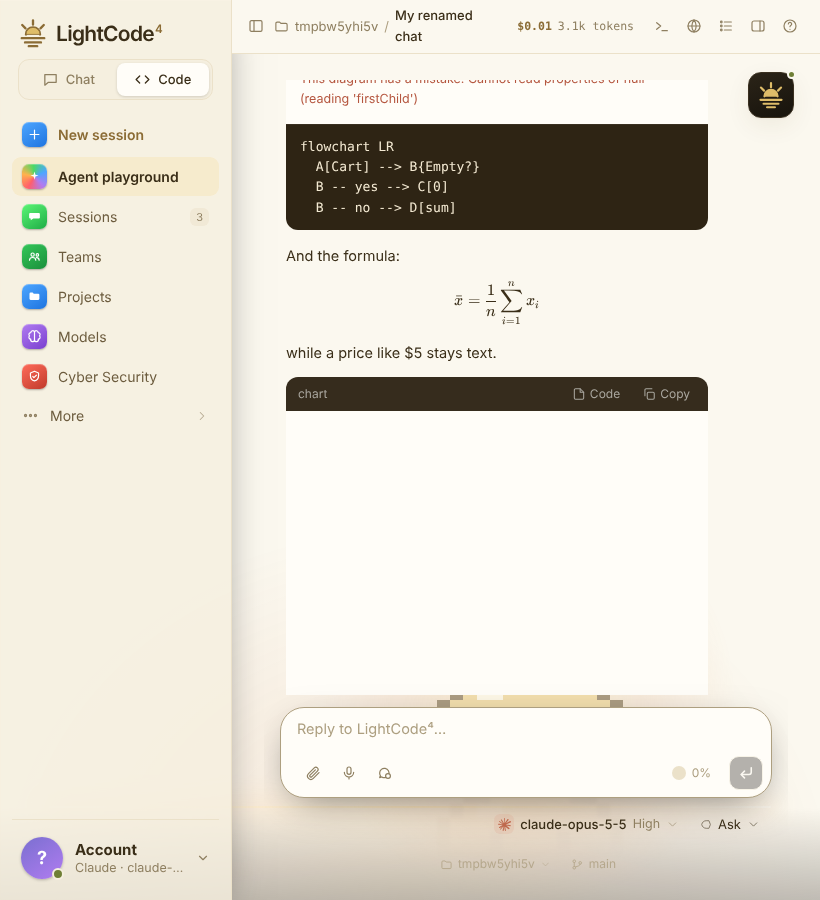
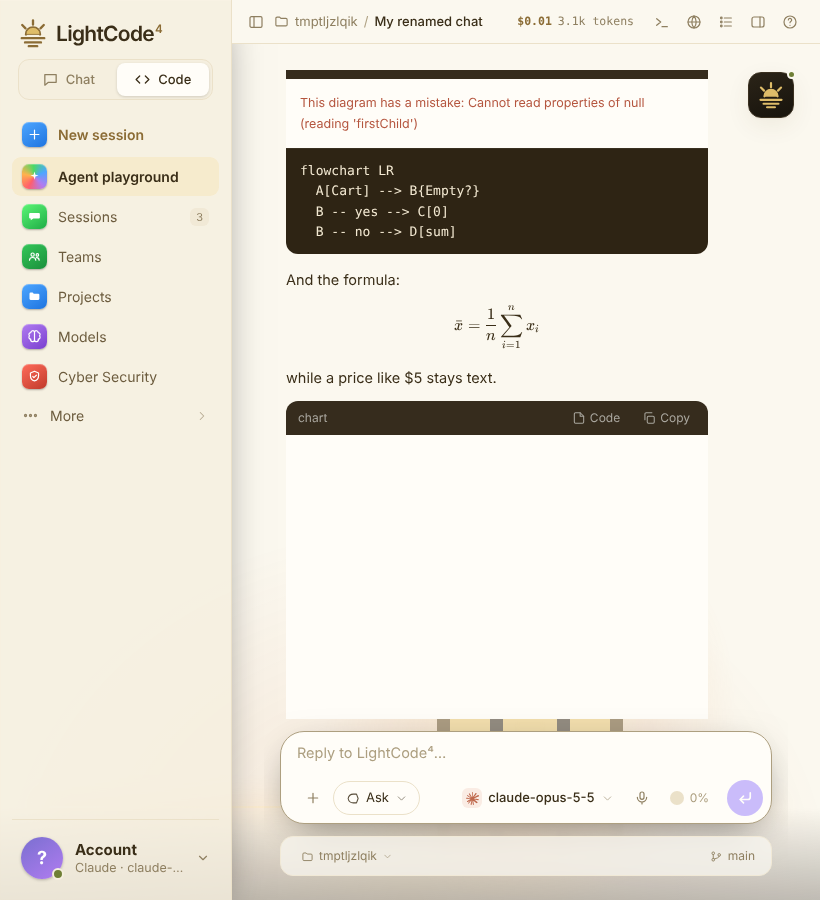
Composer: exact reference match (plain Auto chip, + attach, slim branch strip)
Refine the composer to match the reference exactly:
- Auto chip is a plain outlined chip (shield + label + chevron), no colour fill
- attach is a + (plus), not a paperclip
- model pill shows just the model name (dropped the "by Provider" suffix)
- removed the side-chat icon from the row (still on ⌘;) so the row is
  + · Auto · (spacer) · model · mic · send
- send is a clean straight up-arrow in the round purple button
- the workspace/branch strip is thin and subtle (not a heavy frame), slightly
  inset, folder-left / branch-right

UI audit updated (effort no longer shown in the pill; model+mode in the row);
231/231 pass.

Claude-Session: https://claude.ai/code/session_01AvqsqpDFjBC8YmDhkXMhAb

diff --git a/myagent/static/index.html b/myagent/static/index.html
@@ -141,6 +141,9 @@ body:not(.chatting) #scroll, body:not(.chatting) #dock { display: none; }
 .comp-row #send { margin-left: 2px; }
 .comp-row #modeMenu { left: 0; right: auto; }
 .comp-row #provMenu { left: auto; right: 0; }
+.comp-row #sideBtn { display: none; }                 /* side chat stays on ⌘; — keeps the row to the reference set */
+.comp-row .modelchip > small { display: none; }       /* show just the model name, no "by Provider" */
+.comp-row .modelchip > b { font-weight: 600; }
 .ghost { border: 0; background: none; font-size: 13px; color: var(--muted); padding: 5px 8px; border-radius: 8px; display: flex; gap: 5px; align-items: center; }
 .ghost:hover { background: var(--hover); color: var(--text); }
 .ghost svg { width: 16px; height: 16px; }
@@ -1383,18 +1386,18 @@ body:not(.panel-open) #scroll { padding-right: 58px; }  /* keeps messages clear 
 .comp-row #provList { max-height: min(440px, calc(100vh - 260px)); padding-right: 2px; -webkit-mask-image: linear-gradient(to bottom, #000 calc(100% - 28px), transparent); mask-image: linear-gradient(to bottom, #000 calc(100% - 28px), transparent); padding-bottom: 20px; }
 .comp-row .modelchip .mlogo { box-shadow: none; } .comp-row .modelchip .mlogo svg { width: 13px; height: 13px; } .comp-row .modelchip .mlogo .pletter { font-size: 11px; }
 /* permission chip: a shield + short label (Ask / Auto / Plan), coloured by mode */
-#planBtn.modechip { display: inline-flex; align-items: center; gap: 6px; padding: 5px 9px; border-radius: 999px; border: 1px solid var(--line); font-size: 13px; }
+#planBtn.modechip { display: inline-flex; align-items: center; gap: 6px; padding: 5px 11px; border-radius: 999px; border: 1px solid var(--line); font-size: 13px; color: var(--text); background: none; }
 #planBtn.modechip:hover { background: var(--hover); }
-#planBtn.modechip .shield { width: 15px; height: 15px; fill: none; stroke: currentColor; stroke-width: 1.7; stroke-linecap: round; stroke-linejoin: round; flex: none; }
+#planBtn.modechip .shield { width: 15px; height: 15px; fill: none; stroke: currentColor; stroke-width: 1.7; stroke-linecap: round; stroke-linejoin: round; flex: none; opacity: .85; }
 #planBtn.modechip .chk { display: none; }
-#planBtn.modechip .cv { width: 13px; height: 13px; opacity: .6; }
-#planBtn.mode-ask { color: var(--muted); }
-#planBtn.mode-auto { color: var(--ok); border-color: color-mix(in srgb, var(--ok) 40%, var(--line)); background: color-mix(in srgb, var(--ok) 10%, transparent); }
-#planBtn.mode-auto .chk { display: inline; }
-#planBtn.mode-plan { color: var(--plan); border-color: color-mix(in srgb, var(--plan) 40%, var(--line)); background: color-mix(in srgb, var(--plan) 10%, transparent); }
+#planBtn.modechip .cv { width: 13px; height: 13px; opacity: .55; }
+#planBtn.mode-auto .chk { display: inline; }   /* a tick in the shield for auto, no colour fill */
 /* transient workspace + branch bar: shows while composing, fades out after sending */
-#branchBar { display: flex; gap: 16px; justify-content: space-between; align-items: center; margin: 7px auto 0; max-width: 780px; width: 100%; padding: 0 16px; box-sizing: border-box; font-size: 12px; color: var(--faint); opacity: 0; transform: translateY(-3px); transition: opacity .2s ease, transform .2s ease; pointer-events: none; }
-#branchBar.show { opacity: .8; transform: none; }
+#branchBar { display: flex; gap: 16px; justify-content: space-between; align-items: center; margin: 5px auto 0; max-width: 744px; width: calc(100% - 20px); box-sizing: border-box; padding: 4px 14px; font-size: 11.5px; color: var(--faint);
+  background: color-mix(in srgb, var(--panel) 32%, transparent); border-radius: 10px;
+  opacity: 0; transform: translateY(-4px); transition: opacity .18s ease, transform .18s ease; pointer-events: none; }
+#branchBar.show { opacity: .9; transform: none; }
+#branchBar svg { opacity: .7; }
 #branchBar[hidden] { display: none; }
 #branchBar.show { pointer-events: auto; }
 #branchBar .bb-item { display: inline-flex; align-items: center; gap: 5px; white-space: nowrap; position: relative; }
@@ -1710,7 +1713,7 @@ body:not(.panel-open) #scroll { padding-right: 58px; }  /* keeps messages clear 
       <div id="files"></div>
       <textarea id="input" aria-label="Message" rows="1" placeholder="Ask LightCode⁴ to build, fix or explain something…"></textarea>
       <div class="comp-row">
-        <button class="ghost" id="attach" title="Attach images, PDFs or text files" aria-label="Attach files"><svg><use href="#i-clip"/></svg></button>
+        <button class="ghost" id="attach" title="Attach images, PDFs or text files" aria-label="Attach files"><svg><use href="#i-plus"/></svg></button>
         <button class="ghost modechip mode-ask" id="planBtn" title="How the agent works: asks first, auto-approve, or plan mode" aria-haspopup="menu" aria-expanded="false"><svg class="shield" viewBox="0 0 24 24"><path d="M12 3l7 2.6v5.1c0 4.3-3 7.5-7 8.3-4-.8-7-4-7-8.3V5.6z"/><path class="chk" d="M9.2 12l1.9 1.9L15 10"/></svg><span id="modeLabel">Ask</span><svg class="cv"><use href="#i-chev"/></svg></button>
         <div id="modeMenu" role="menu" hidden>
           <button role="menuitemradio" data-mode="ask"><b>Asks first</b><small>Approve each change and command</small></button>
@@ -1730,7 +1733,7 @@ body:not(.panel-open) #scroll { padding-right: 58px; }  /* keeps messages clear 
         <button class="ghost" id="micBtn" title="Voice typing" aria-label="Voice typing"><svg viewBox="0 0 24 24"><rect x="9" y="3" width="6" height="11" rx="3"/><path d="M5 11a7 7 0 0 0 14 0M12 18v3"/></svg></button>
         <button class="ghost" id="sideBtn" title="Side chat (⌘;) — a quick question that doesn't change this chat" aria-label="Side chat"><svg viewBox="0 0 24 24"><path d="M4 12a7 7 0 1 1 3.2 5.9L4 19l1.1-3.1A7 7 0 0 1 4 12z"/><circle cx="16.5" cy="16.5" r="3.6" fill="var(--panel)"/></svg></button>
         <button id="ctxMeter" hidden title="How full the model's memory of this chat is. Click to summarize it (/compact)."><span class="ring"></span><span id="ctxText">0%</span></button>
-        <button class="send" id="send" title="Send (Enter)" aria-label="Send" disabled><svg><use href="#i-up"/></svg></button>
+        <button class="send" id="send" title="Send (Enter)" aria-label="Send" disabled><svg viewBox="0 0 24 24" fill="none" stroke="currentColor"><path d="M12 19V6M6 12l6-6 6 6"/></svg></button>
       </div>
       <input type="file" id="fileInput" multiple hidden>
     </div>

diff --git a/tests/ui_audit.js b/tests/ui_audit.js
@@ -375,7 +375,7 @@ async function overlaps(pg, label) {
       await pg.click('#modelPill'); await pg.waitForTimeout(300);
       check('Model menu has an effort switch for Claude', await pg.isVisible('#effortRow') && (await pg.innerText('#effortRow')).includes('Max'));
       await pg.click('#effortRow [data-e="low"]'); await pg.waitForTimeout(500);
-      check('Choosing an effort applies it', await pg.evaluate(() => config.effort === 'low') && (await pg.innerText('#modelPill')).includes('Low'), JSON.stringify(await pg.evaluate(() => [config.effort, document.getElementById('modelName').textContent, config.provider, busy, [...document.querySelectorAll('#log .notice')].slice(-1).map(n => n.textContent)])));
+      check('Choosing an effort applies it', await pg.evaluate(() => config.effort === 'low'), JSON.stringify(await pg.evaluate(() => [config.effort, document.getElementById('modelName').textContent, config.provider, busy, [...document.querySelectorAll('#log .notice')].slice(-1).map(n => n.textContent)])));
       await pg.click('#effortRow [data-e="high"]'); await pg.waitForTimeout(400); await pg.keyboard.press('Escape'); await pg.mouse.click(700, 300); await pg.waitForTimeout(200);
       await pg.keyboard.press('Control+f'); await pg.waitForTimeout(200);
       check('Ctrl/Cmd+F opens find in this chat', await pg.isVisible('#findBar') && await pg.evaluate(() => document.activeElement.id === 'findIn'));
